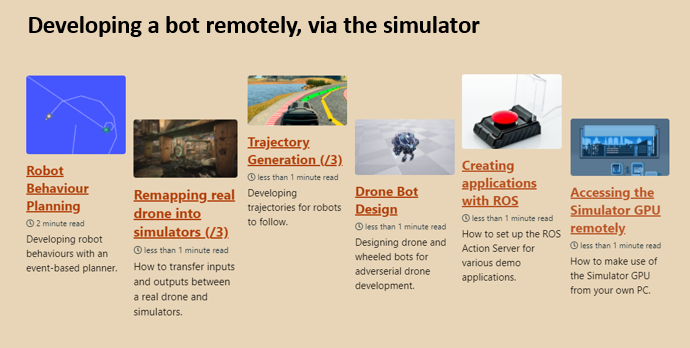
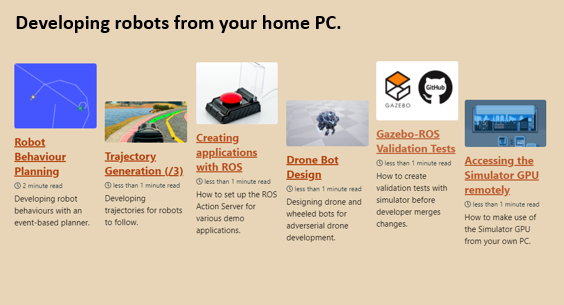
new ad

Changed region(s): [[0.0, 0.177, 0.9947, 0.9148], [0.0301, 0.0295, 0.6933, 0.118]]

diff --git a/_pages/projects.md b/_pages/projects.md
@@ -39,27 +39,62 @@ gallery_remote:
     alt: "accessing-simulator-gpu"
     title: "accessing-simulator-gpu"
 
+gallery_efficient:
+  - url: https://autonomousdronedevelopers.github.io/algorithms/behaviour-planning/
+    image_path: /assets/images/frontpage/remote/1.PNG
+    alt: "behaviour-planning"
+    title: "behaviour-planning"
+
+  - url: https://autonomousdronedevelopers.github.io/infrastructure/ros-remapping-to-simulator/
+    image_path: /assets/images/frontpage/remote/2.PNG
+    alt: "ros-remapping"
+    title: "ros-remapping"
+
+  - url: https://autonomousdronedevelopers.github.io/algorithms/trajectory-generation/
+    image_path: /assets/images/frontpage/remote/3.PNG
+    alt: "trajectory-generation"
+    title: "trajectory-generation"
+
+  - url: https://autonomousdronedevelopers.github.io/algorithms/drone-bot-design/
+    image_path: /assets/images/frontpage/remote/4.PNG
+    alt: "drone-bot-design"
+    title: "drone-bot-design"
+
+  - url: https://autonomousdronedevelopers.github.io/performance/ros-applications/
+    image_path: /assets/images/frontpage/remote/5.PNG
+    alt: "ros-applications"
+    title: "ros-applications"
+
+  - url: https://autonomousdronedevelopers.github.io/infrastructure/accessing-simulator-gpu/
+    image_path: /assets/images/frontpage/remote/6.PNG
+    alt: "accessing-simulator-gpu"
+    title: "accessing-simulator-gpu"
 
 ---
 
 <h2>Tutorials for different purposes.</h2>
-
+<!--
+<h2></h2>
+<h2>Developing robots from your home PC.</h2>
 {% include gallery id="gallery_remote" layout="fourth" class="full" caption="" %}
-
+-->
 {%
 include figure
-image_path="assets/images/frontpage/remotely-idea.PNG"
+image_path="assets/images/backgrounds/robots-idea.PNG"
 alt="dev-tutorials"
 caption=" "
 %}
 
+<!--
+<h2></h2>
+<h2>Some Optitrack companion tools to gain in efficiency.</h2>
+{% include gallery id="gallery_efficient" layout="fourth" class="full" caption="" %}
+-->
 {%
 include figure
-image_path="assets/images/frontpage/robots-idea.PNG"
+image_path="assets/images/backgrounds/remotely-idea.PNG"
 alt="dev-tutorials"
 caption=" "
 %}
 
-<h2>Some projects that have used these tutorials.
-
-</h2>
+<h2>Some projects that have used these tutorials.</h2>
